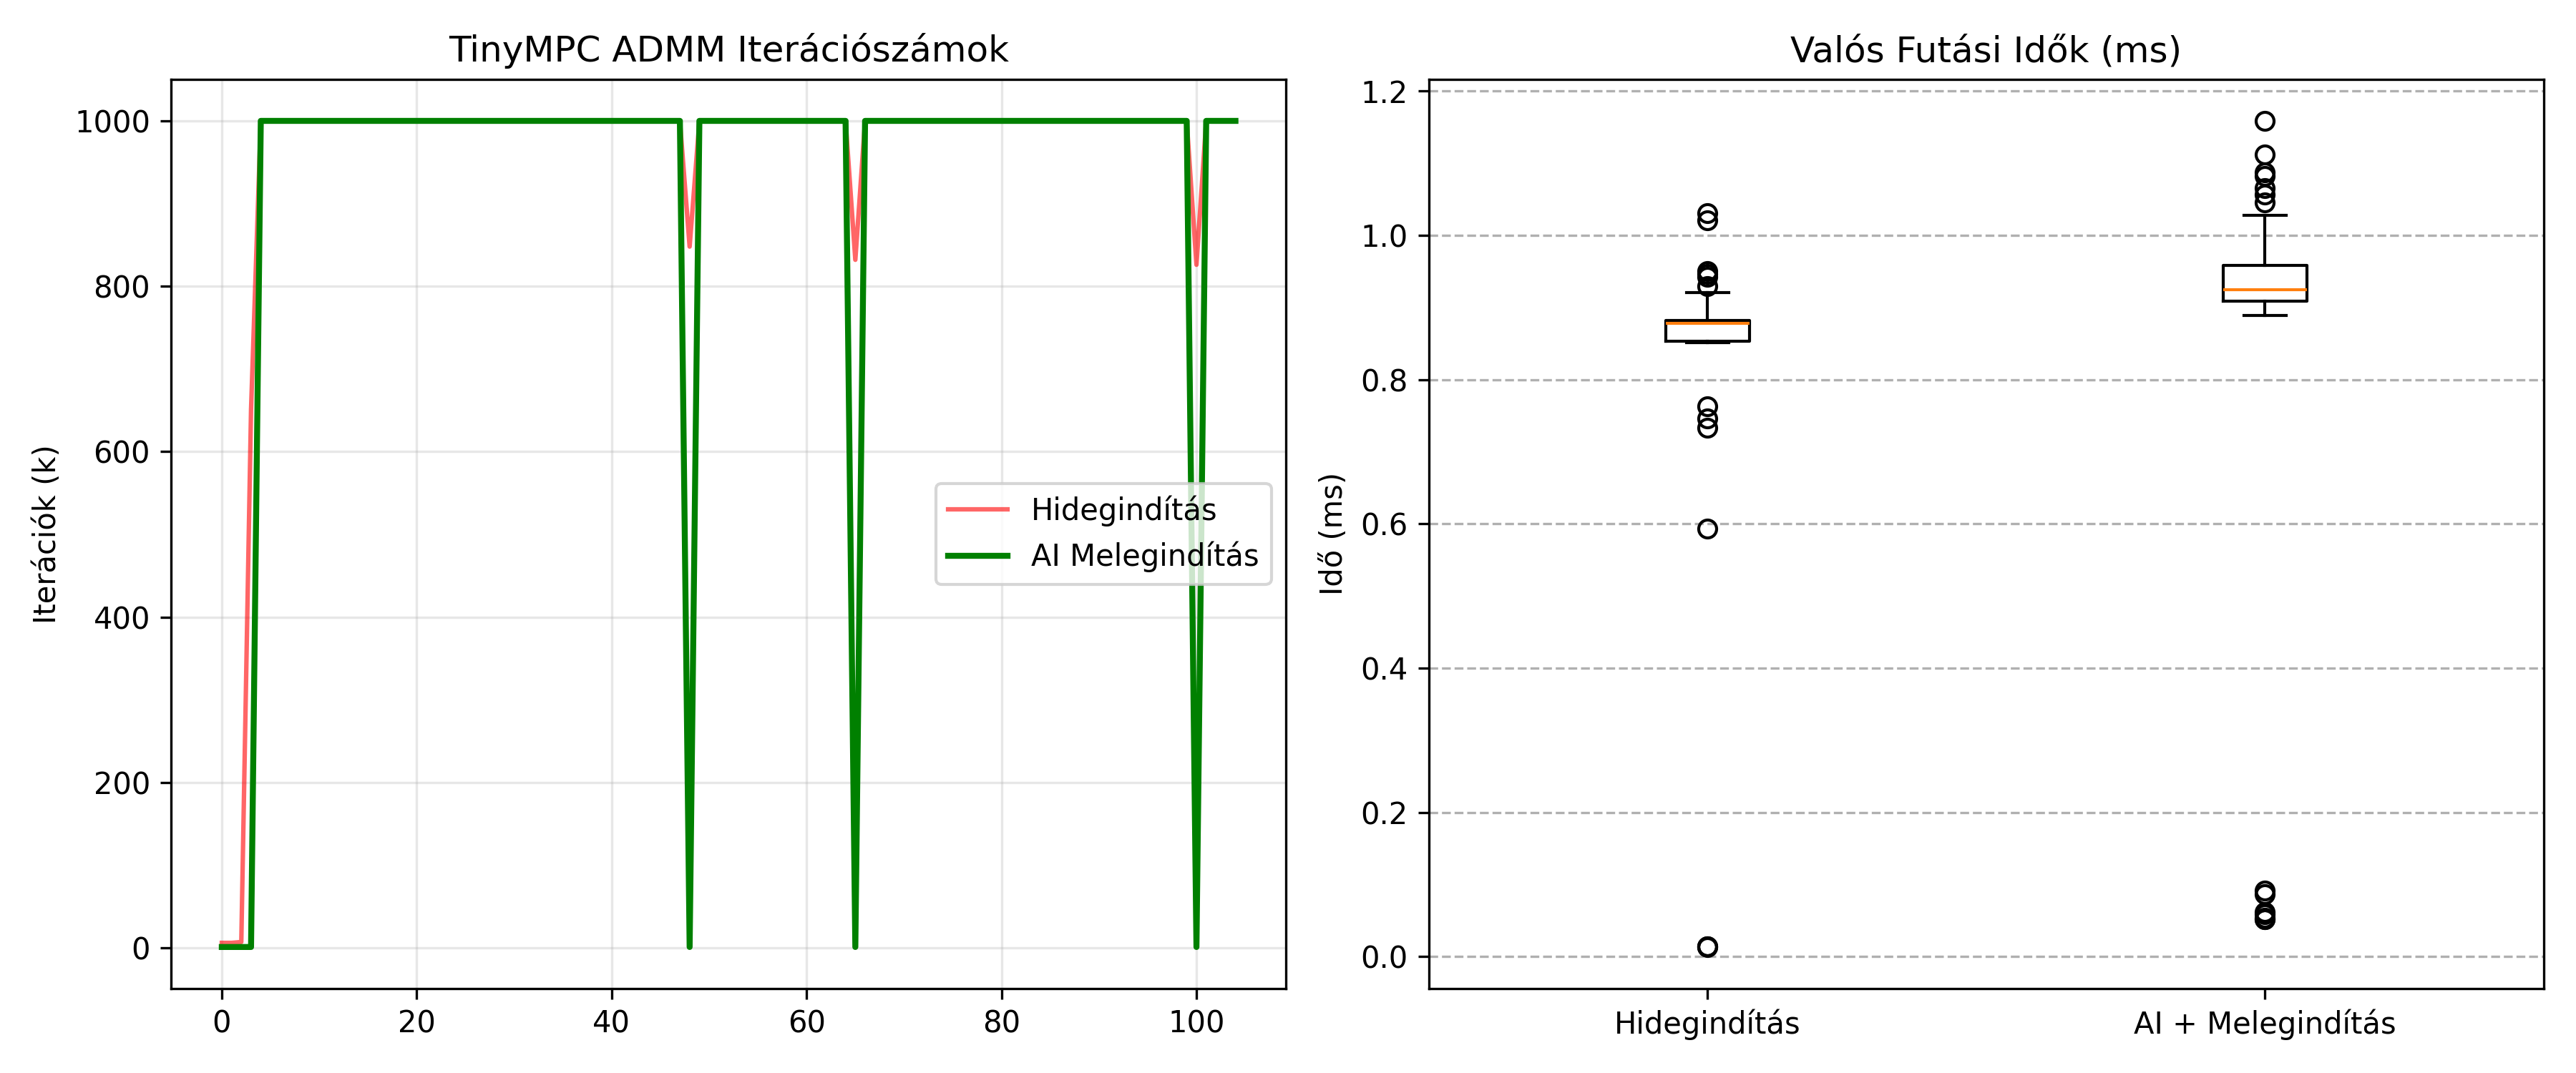
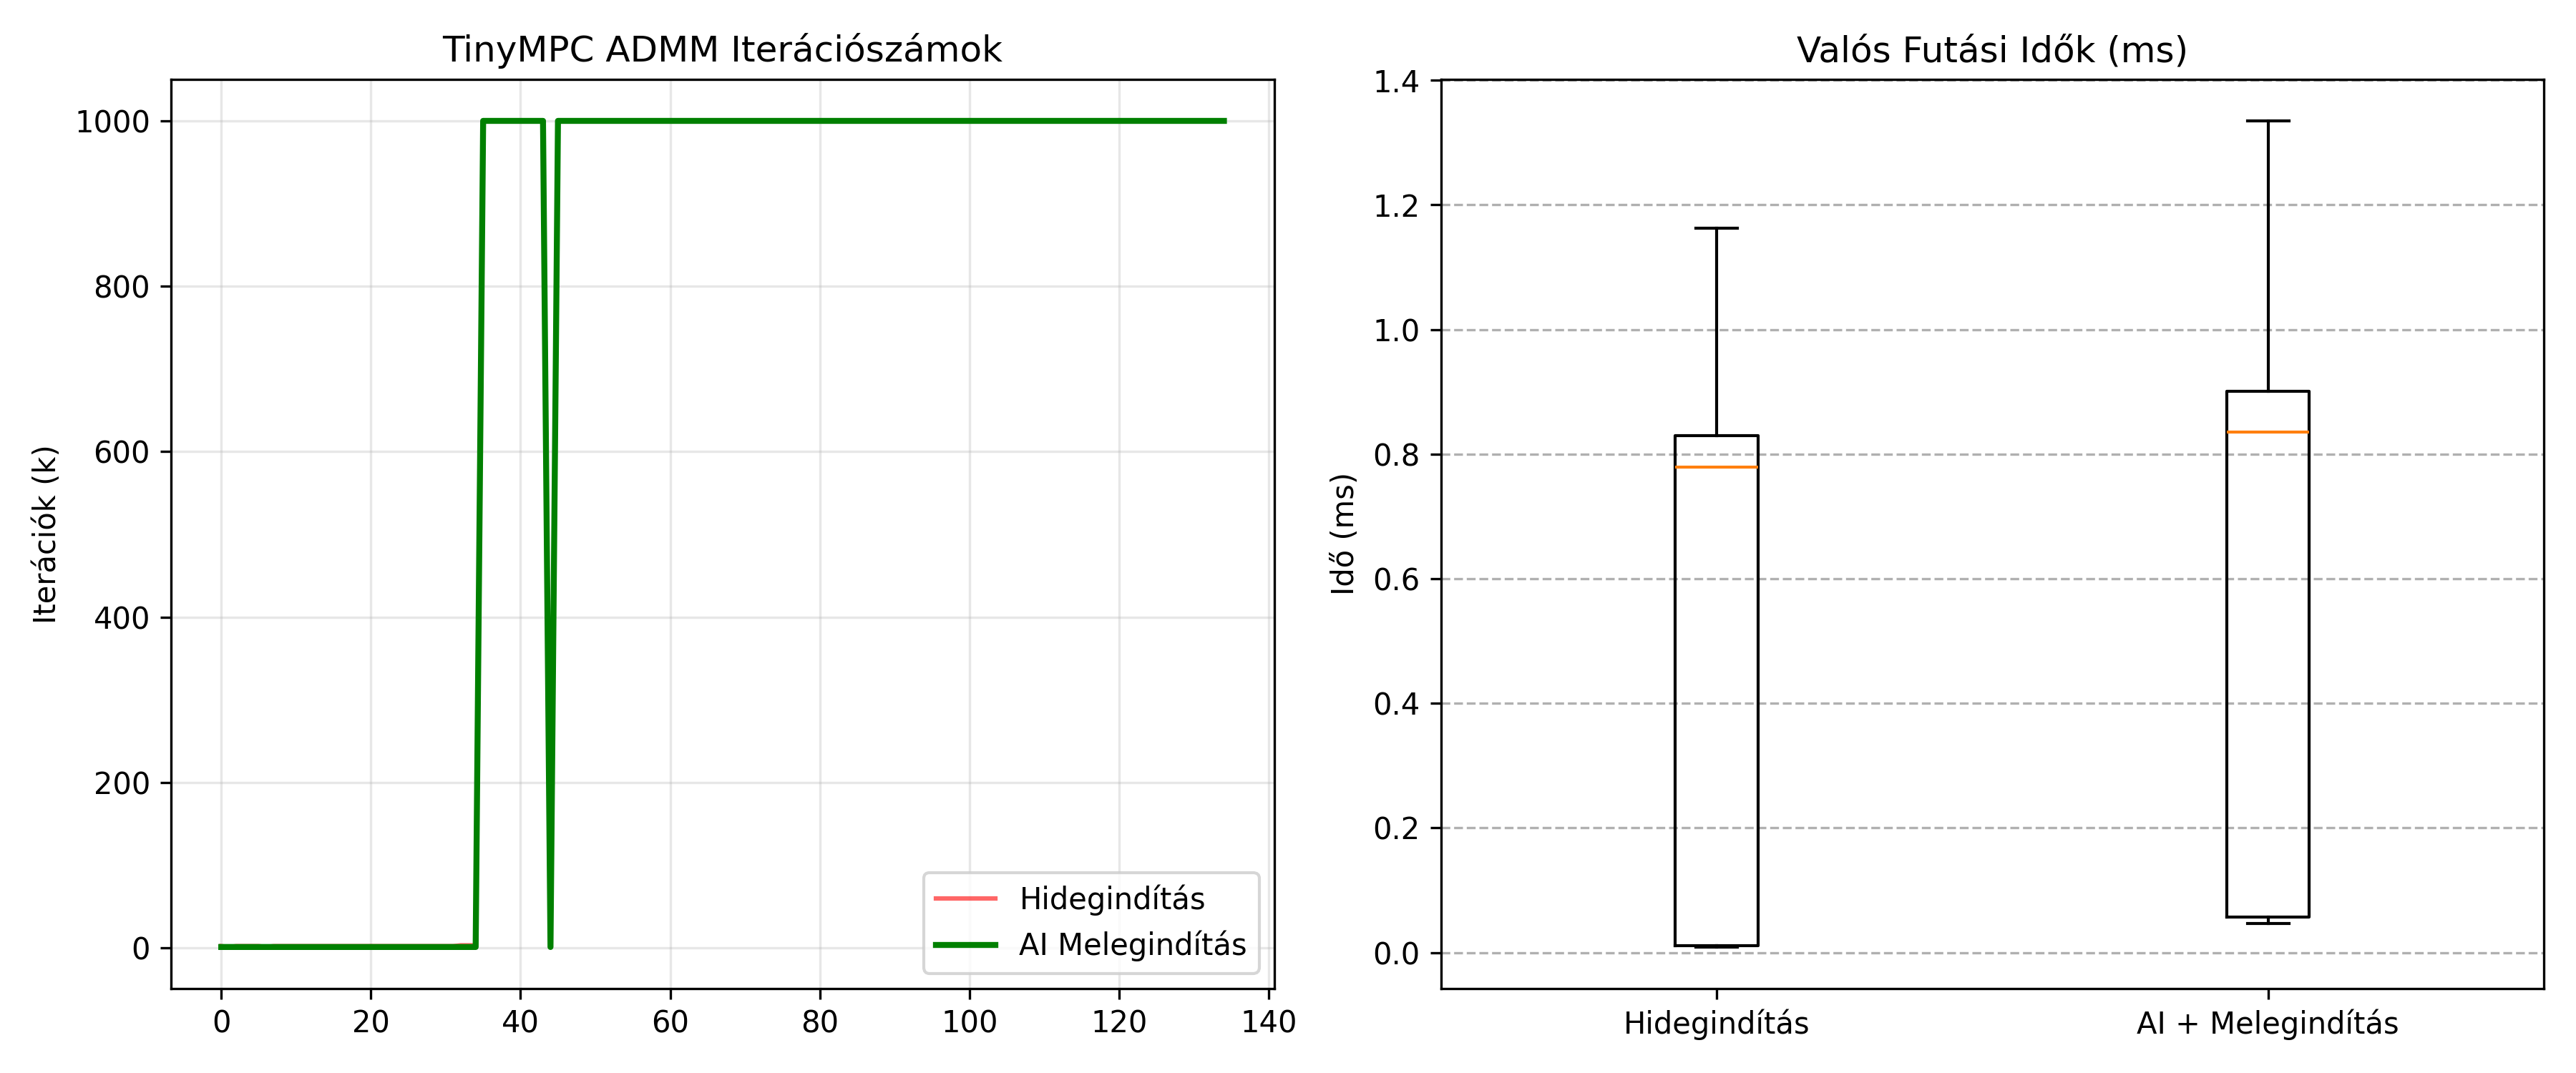
Frissített változtatások

diff --git a/src/data_generation.py b/src/data_generation.py
@@ -41,7 +41,7 @@ class DynamicBicycleModel:
 # --- 2. SOLVER (LateralMPC definíciója) ---
 
 class LateralMPC:
-    def __init__(self, N_horizon=10, dt=0.1):
+    def __init__(self, N_horizon=10, dt=0.1, Q_diag=[30.0, 0.1, 5.0, 0.1], R_diag=[0.1], u_bound=0.52):
         self.N, self.dt = N_horizon, dt
         self.nx, self.nu = 4, 1
         
@@ -60,65 +60,70 @@ class LateralMPC:
         self.Ad = np.eye(4) + Ac * self.dt
         self.Bd = Bc * self.dt
         
-        self.Q = [10.0, 0.1, 1.0, 0.1]
-        self.R = [0.1]
-        self.u_min, self.u_max = [-0.52], [0.52]
-        self.x_min = [-10.0, -5.0, -1.0, -2.0]
-        self.x_max = [10.0, 5.0, 1.0, 2.0]
-
-        # Példányosítás
-        self.prob = TinyMPC()
+        # Szigorított dinamikus paraméterek
+        self.Q = Q_diag
+        self.R = R_diag
+        self.u_min, self.u_max = [-u_bound], [u_bound]
         
-        # Setup hívás
+        self.x_min = [-20.0, -10.0, -3.14, -5.0]
+        self.x_max = [20.0, 10.0, 3.14, 5.0]
+
+        # Példányosítás és Setup
+        self.prob = TinyMPC()
         self.prob.setup(self.Ad.astype(np.float64), 
                         self.Bd.astype(np.float64), 
                         np.diag(self.Q).astype(np.float64), 
                         np.diag(self.R).astype(np.float64), 
-                        int(self.N),  # <--- Itt a trükk: ez kötelezően az 5. paraméter
+                        int(self.N), 
                         rho=0.01,
                         x_min=np.array(self.x_min).astype(np.float64), 
                         x_max=np.array(self.x_max).astype(np.float64), 
                         u_min=np.array(self.u_min).astype(np.float64), 
                         u_max=np.array(self.u_max).astype(np.float64))
         
-        self.prob.update_settings(abs_pri_tol=1e-3, abs_dua_tol=1e-3, max_iter=1000)
+        self.prob.update_settings(abs_pri_tol=1e-4, abs_dua_tol=1e-4, max_iter=1000)
 
     def solve(self, state_error, warm_start_u=None):
         self.prob.set_x0(state_error.astype(np.float64))
-        
-        # A kontroll horizont mérete N-1 (ebben az esetben 9)
         control_N = self.N - 1
         
         if warm_start_u is not None:
-            # Itt (nu x control_N) méretet küldünk, ami 1x9 lesz
             U_guess = np.tile(warm_start_u, (self.nu, control_N)).astype(np.float64) 
             self.prob.set_warm_start(U_guess)
         else:
-            # Itt is a 1x9-es nulla mátrix kell
             self.prob.set_warm_start(np.zeros((self.nu, control_N)).astype(np.float64))
         
         self.prob.solve()
         res = self.prob.get_solution()
-        
-        # Az iterációszám kiolvasása a get_info() segítségével
         iters = self.prob.get_info().iter
-        
-        # Visszaadjuk az első kormányszöget és az iterációkat
         return res.u[:, 0][0], iters
 
 # --- 3. UTILS & ADATGENERÁLÁS ---
 
-def generate_double_lane_change(v=5.0, dt=0.1, total_time=10.0):
+def generate_double_lane_change(v=10.0, dt=0.1, total_time=15.0):
     steps = int(total_time / dt)
     x_ref, y_ref = np.zeros(steps), np.zeros(steps)
     for i in range(steps):
         x_ref[i] = i * v * dt
-        if x_ref[i] < 10.0: y_ref[i] = 0.0
-        elif x_ref[i] < 20.0: y_ref[i] = 3.0
-        elif x_ref[i] < 30.0: y_ref[i] = 3.0
-        elif x_ref[i] < 40.0: y_ref[i] = 0.0
+        if x_ref[i] < 30.0: y_ref[i] = 0.0
+        elif x_ref[i] < 70.0: y_ref[i] = 3.0
+        elif x_ref[i] < 110.0: y_ref[i] = 3.0
+        elif x_ref[i] < 150.0: y_ref[i] = 0.0
         else: y_ref[i] = 0.0
-    return x_ref, gaussian_filter1d(y_ref, sigma=3.0)
+    return x_ref, gaussian_filter1d(y_ref, sigma=15.0)
+
+def generate_slalom(v=10.0, dt=0.1, total_time=15.0, amplitude=1.2, frequency=0.08):
+    """
+    Folyamatos szlalom (szinusz) pálya generálása.
+    amplitude: a kitérés mértéke méterben.
+    frequency: a szlalom sűrűsége (Hz).
+    """
+    steps = int(total_time / dt)
+    t = np.linspace(0, total_time, steps)
+    x_ref = v * t
+    y_ref = amplitude * np.sin(2 * np.pi * frequency * t)
+    
+    return x_ref, y_ref
 
 def generate_dynamic_training_data(num_samples=10000):
     print(f"🚀 {num_samples} db dinamikus minta generálása (N=10, u_horizont=9)...")
@@ -127,10 +132,11 @@ def generate_dynamic_training_data(num_samples=10000):
     
     for i in range(num_samples):
         # Véletlenszerű állapotok a tanításhoz
-        err_y = random.uniform(-3.0, 3.0)
-        err_vy = random.uniform(-1.0, 1.0)
-        err_psi = random.uniform(-0.5, 0.5)
-        err_r = random.uniform(-1.0, 1.0)
+        # A ciklusban a brutális 3.0 méter helyett reálisabb hibákat kérünk
+        err_y = random.uniform(-0.75, 0.75)  # Reális sávtartási hiba
+        err_vy = random.uniform(-0.25, 0.25)
+        err_psi = random.uniform(-0.1, 0.1)
+        err_r = random.uniform(-0.25, 0.25)
         state_err = np.array([err_y, err_vy, err_psi, err_r])
         
         # Megoldás a frissített solve függvénnyel

diff --git a/src/test_mpc_only.py b/src/test_mpc_only.py
@@ -1,0 +1,46 @@
+import numpy as np
+import time
+from data_generation import LateralMPC
+
+def run_mpc_unit_test():
+    print("🔧 Izolált TinyMPC Matematikai Teszt Indítása...\n")
+    
+    # Példányosítjuk az MPC-t (szimulációs háló és AI nélkül)
+    try:
+        mpc = LateralMPC(N_horizon=10, dt=0.1)
+        print("✅ MPC példányosítva a data_generation.py alapján.")
+    except Exception as e:
+        print(f"❌ Hiba az MPC inicializálásakor: {e}")
+        return
+
+    # Tesztesetek: [e_y (méter), e_vy (m/s), e_psi (radián), e_r (rad/s)]
+    test_cases = [
+        {"name": "1. Enyhe hiba (10 cm letérés)", "state": np.array([0.1, 0.0, 0.0, 0.0])},
+        {"name": "2. Közepes hiba (1 méter letérés)", "state": np.array([1.0, 0.0, 0.0, 0.0])},
+        {"name": "3. Tiszta szöghiba (kb. 5 fok eltérés)", "state": np.array([0.0, 0.0, 0.1, 0.0])},
+        {"name": "4. Kombinált extrém hiba (3m letérés, sodródás)", "state": np.array([3.0, 0.5, 0.2, 0.1])}
+    ]
+    
+    for case in test_cases:
+        print(f"▶ Teszt: {case['name']}")
+        print(f"  Bemenet (állapothiba): {case['state']}")
+        
+        start_time = time.time()
+        # Szigorúan hidegindítás, melegítő AI tipp nélkül
+        try:
+            delta, iters = mpc.solve(case['state'], warm_start_u=None)
+            calc_time = (time.time() - start_time) * 1000
+            
+            print(f"  Eredmény -> Kormányszög (delta): {delta:.4f} rad")
+            print(f"  Iterációk száma: {iters} (Futási idő: {calc_time:.2f} ms)")
+            
+            if iters >= 950:
+                print("  ❌ HIBA: A solver nem konvergált! (Beakadt a plafonba)")
+            else:
+                print("  ✅ SIKER: A solver matematikailag stabil ezen a ponton.")
+        except Exception as e:
+            print(f"  ❌ KRITIKUS HIBA a számolás közben: {e}")
+        print("-" * 50)
+
+if __name__ == "__main__":
+    run_mpc_unit_test()

diff --git a/src/simulation.py b/src/simulation.py
@@ -3,7 +3,7 @@ import matplotlib.pyplot as plt
 import torch
 import pickle
 import time
-from data_generation import DynamicBicycleModel, generate_double_lane_change, LateralMPC
+from data_generation import DynamicBicycleModel, generate_double_lane_change, LateralMPC, generate_slalom
 from train_model import TinyMPCNet
 
 def run_ultimate_benchmark():
@@ -34,7 +34,7 @@ def run_ultimate_benchmark():
 
     # 2. Szimulációs környezet
     v_x, dt = 10.0, 0.1
-    x_ref, y_ref = generate_double_lane_change(v_x, dt, 12.0)
+    x_ref, y_ref = generate_slalom(v_x, dt, total_time=15.0, amplitude=1.2, frequency=0.08)
     
     psi_ref = np.zeros(len(x_ref))
     for i in range(len(x_ref)-1):
@@ -74,6 +74,9 @@ def run_ultimate_benchmark():
         results['warm_total_times_ms'].append((time.perf_counter() - t_start_warm) * 1000)
         results['warm_iters'].append(iter_warm)
         
+        if iter_cold == 1000 or iter_warm == 1000:
+            print(f"⚠️ FIGYELEM: Infeasible állapot a {i}. lépésnél! A jármű lesodródott.")
+
         # Fizika frissítése
         car.update(delta_warm)
 